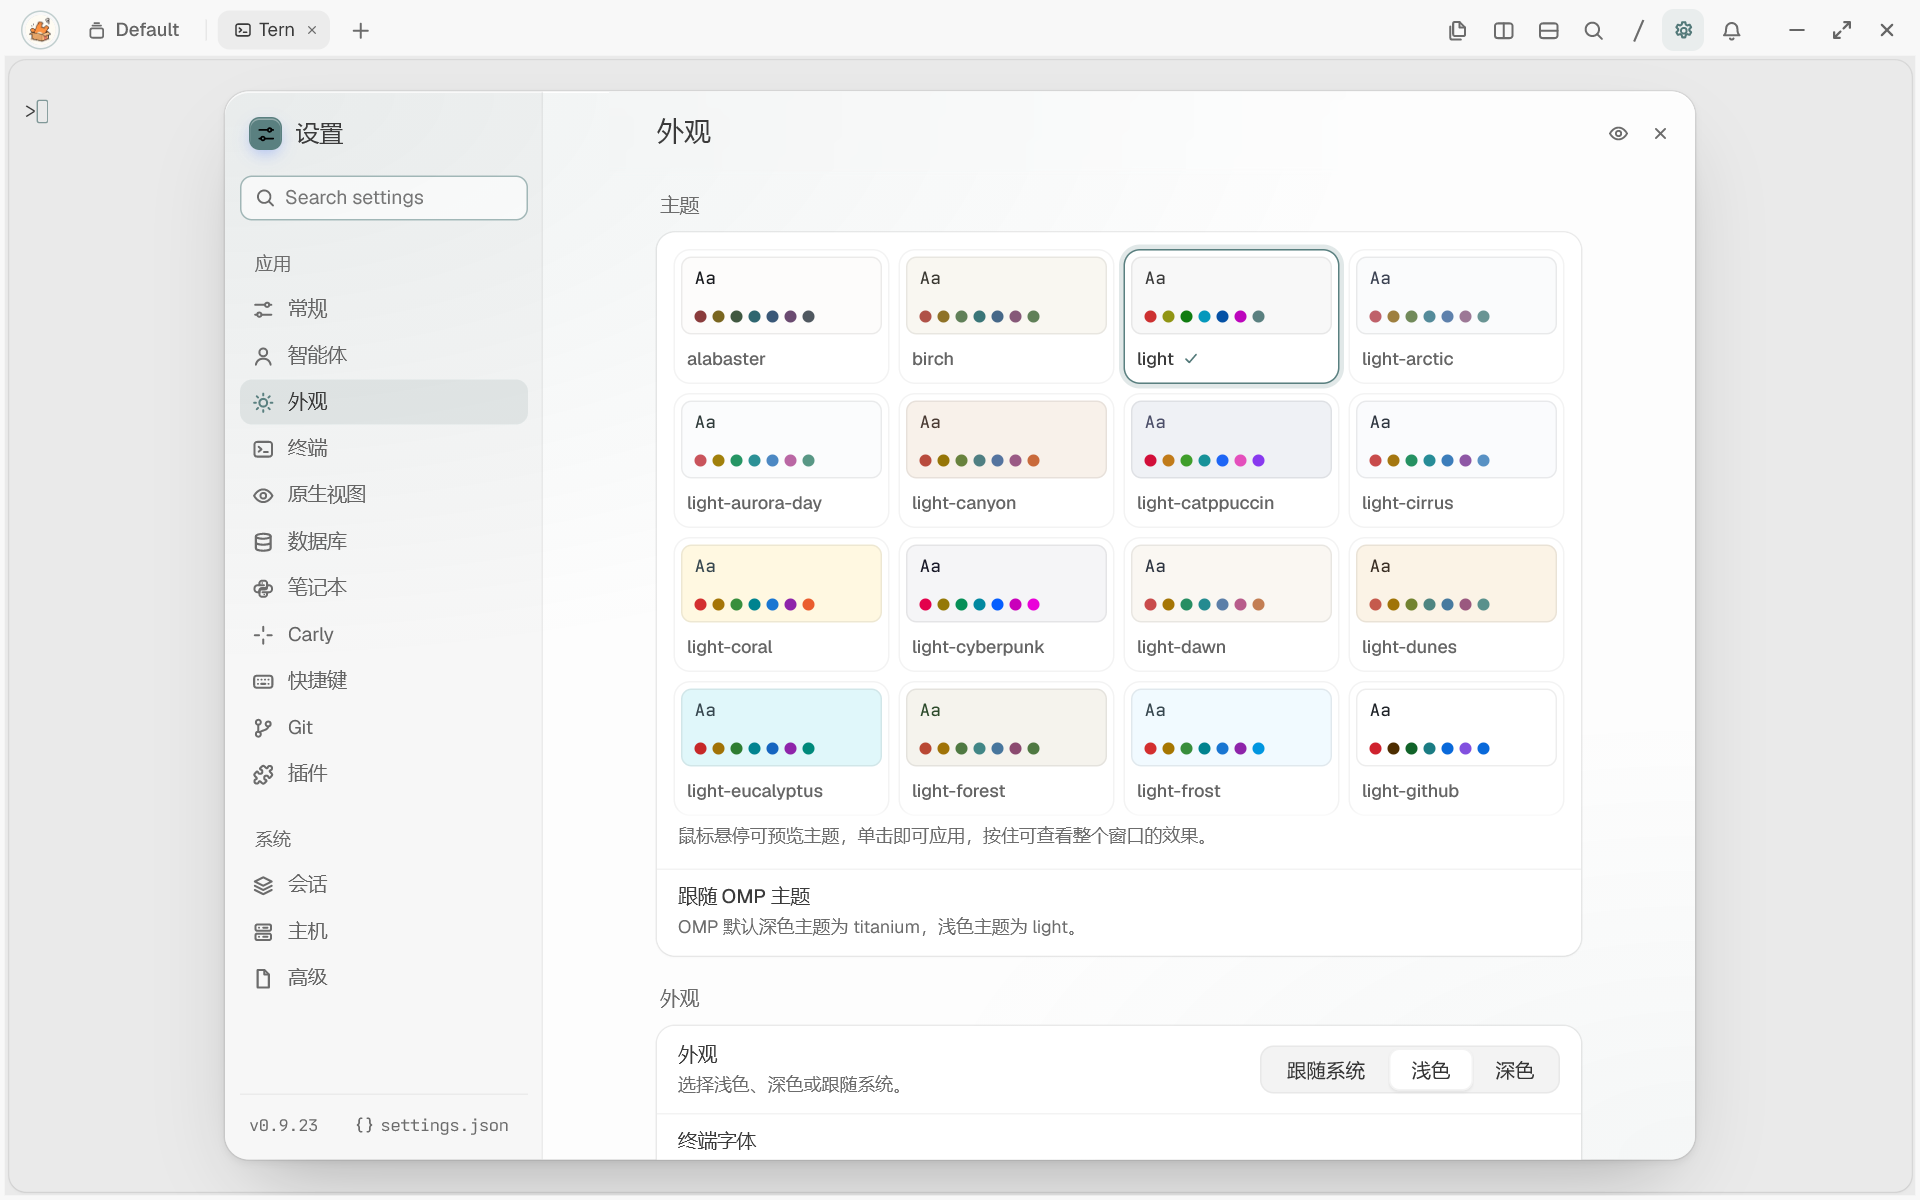
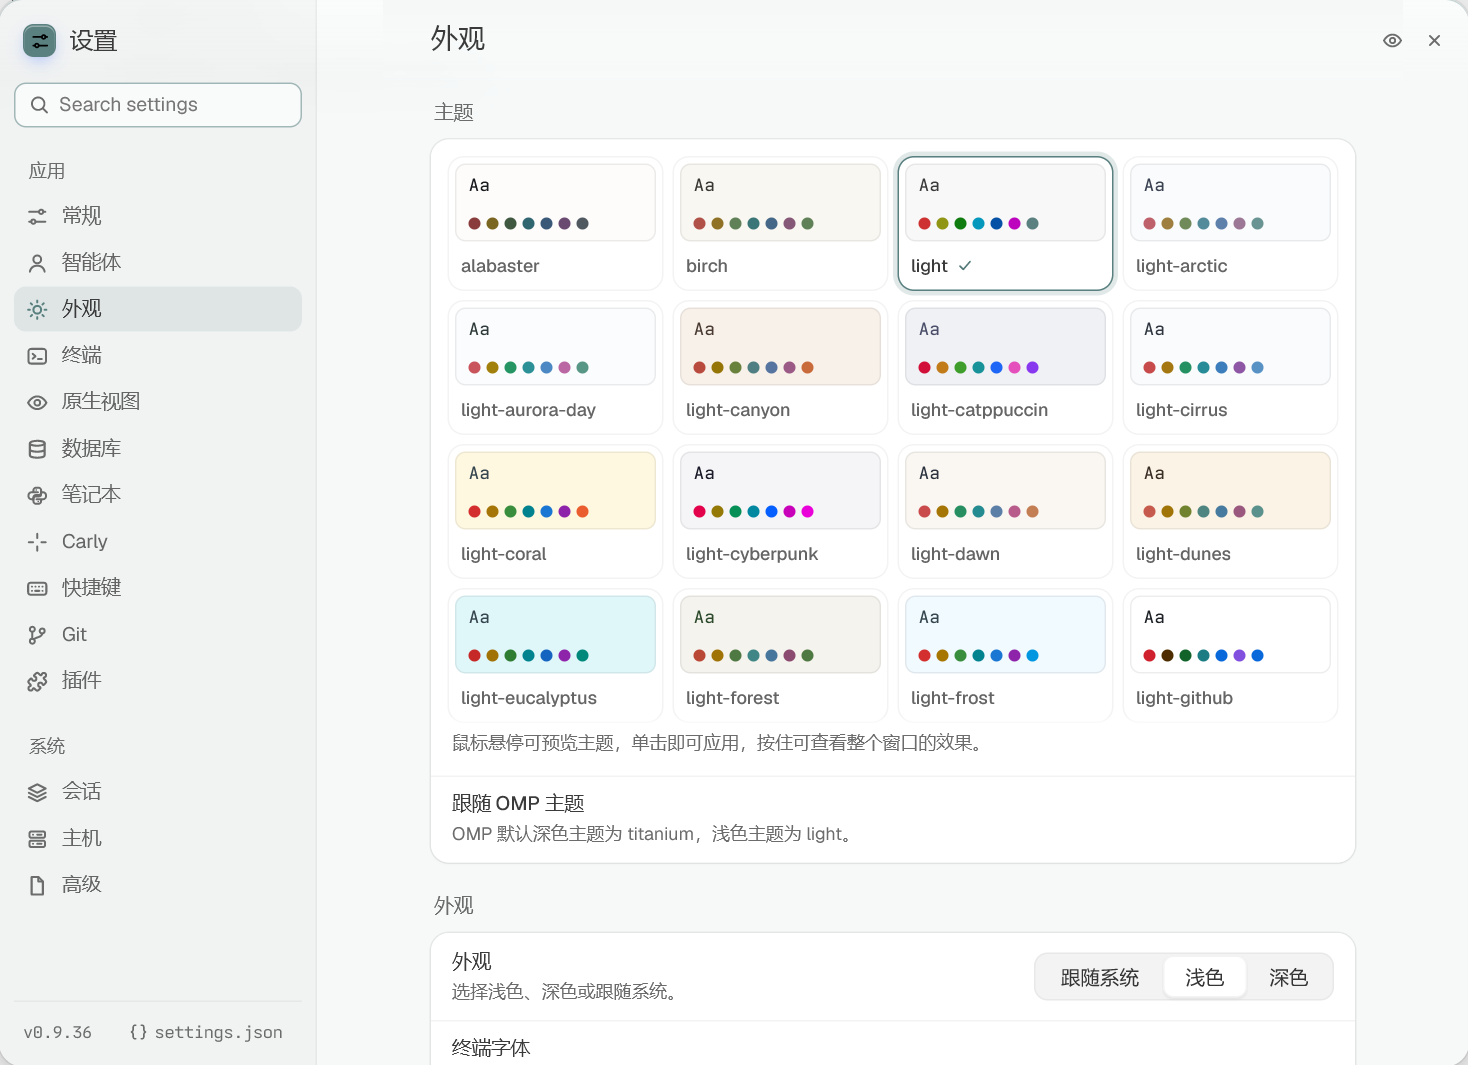
精简 README 并更新设置截图

diff --git a/README.md b/README.md
@@ -1,94 +1,60 @@
-# Tern 简体中文 0.7.3（Windows，适配 Tern 0.9.36）
+# Tern 简体中文 0.7.3
 
-适用于 Windows 的非官方 Tern 汉化插件，安装后随 Tern 自动加载，无需单独打开启动脚本。本项目不包含 Tern 主程序，也不是 Tern 官方发行版。
+适用于 Windows 的非官方 Tern 汉化插件。安装后随 Tern 启动，覆盖设置、命令面板和常用菜单。
 
-[查看发行版本](https://github.com/losewayy/tern-zh-cn/releases/latest) · [查看更新记录](CHANGELOG.md) · [隐私说明](PRIVACY.md)
+[更新记录](CHANGELOG.md) · [历史发行](https://github.com/losewayy/tern-zh-cn/releases) · [隐私说明](PRIVACY.md) · [MIT 许可证](LICENSE)
 
-## 第一次使用
+## 安装
 
-**不需要注册 GitHub 账号，也不用下载源码 ZIP。** 已经安装 Tern 的用户，按下面三步操作即可。
+需要[受支持的 Tern](#兼容性) 和 [Git](https://git-scm.com/install/windows)。在线安装需要能访问 GitHub，无需登录。
 
-准备：使用 Windows，并安装受支持的 Tern。当前推荐 Tern **0.9.36 (7123a24)**，也兼容 **0.9.30 (fe54a4c)**、**0.9.23 (35c63ab)**、**0.9.12 (e498b49)** 和 **0.9.9 (9c1c09f)**。版本号相同但构建编号不同，也可能无法启用设置页汉化。在线安装还需要 Git；如果电脑没有安装，请先从 [Git 官方 Windows 下载页](https://git-scm.com/install/windows) 安装 Git，装好后重新打开 Tern。
+**方法一，终端。** 在 Tern 的终端里运行以下命令，安装完成后重新打开 Tern。
 
-1. 打开 Tern，找到能输入命令的终端区域。不要在设置搜索框里输入。
-2. 点击下面代码块右上角的复制按钮，粘贴到终端，按 **Enter（回车）**，等待安装命令结束。
-
-   ```text
-   tern plugin install github.com/losewayy/tern-zh-cn
-   ```
-
-3. 确认安装成功后，保存正在进行的工作，关闭所有 Tern 窗口，再重新打开 Tern。打开设置，检查左侧是否显示“常规、智能体、外观、终端”等中文分类。
-
-![首次安装操作示意：打开 Tern 终端，粘贴安装命令并回车，安装成功后重新打开 Tern](assets/screenshots/install-guide.png)
-
-图中是操作示意，不是安装成功的实际输出。安装过程中需要联网。安装完成后，日常汉化在本机运行，无需在线翻译。
-
-**方法二，图形界面安装：** 在 Tern 设置的 **Plugins** 页面，将 `github.com/losewayy/tern-zh-cn` 粘贴到 **Install…** 的输入框，点击 **Install**，安装成功后重新打开 Tern。同样需要 Git 和网络。
-
-## 更新已安装的插件
-
-先保存工作并关闭所有 Tern 窗口，然后从 Windows 开始菜单打开 **PowerShell** 或 **Windows 终端**，粘贴下面的命令并按回车：
-
-```text
-tern plugin install github.com/losewayy/tern-zh-cn --force
+```powershell
+tern plugin install github.com/losewayy/tern-zh-cn
 ```
 
-命令成功结束后，重新打开 Tern。Windows 可能在 Tern 窗口打开时占用插件目录，因此请先关掉窗口再更新。
+**方法二，图形界面。** 打开 Tern 设置 → **Plugins** → **Install…**，输入 `github.com/losewayy/tern-zh-cn`，安装后重新打开 Tern。
 
-上述在线安装和更新命令获取仓库主分支的当前版本，不会锁定某次发行。发行页会记录每次发布对应的版本、适配范围和已知限制。
+## 更新和卸载
 
-## 安装遇到问题
+保存工作并关闭所有 Tern 窗口，然后在 PowerShell 或 Windows 终端中运行对应命令。
 
-- **提示找不到 `tern`，或“无法将 tern 识别为命令”：** 先确认 Tern 主程序已安装，关闭并重新打开终端后重试。仍然找不到时，使用 Tern 安装目录中的 `tern.com` 的完整路径执行命令；PowerShell 中的写法是 `& "<Tern 安装目录>/tern.com" plugin install github.com/losewayy/tern-zh-cn`，请将占位内容换成实际目录。
-- **提示找不到 Git：** 安装上面链接中的 Git，重新打开 Tern 后重试。
-- **提示插件已经安装：** 按上面的“更新已安装的插件”操作，使用带 `--force` 的命令。
-- **下载失败或连接超时：** 确认电脑能连接 GitHub，然后重新运行安装命令。下载失败不代表已经装好。
-- **装好后设置仍是英文：** 先重新打开 Tern，再检查设置页的版本号及构建编号是否在支持范围内。未知构建会保留设置英文，避免把翻译套在错误位置。搜索结果和部分动态文字目前也会保留英文。
+| 操作 | 命令 |
+| --- | --- |
+| 更新 | `tern plugin install github.com/losewayy/tern-zh-cn --force` |
+| 卸载 | `tern plugin remove tern-zh-plus` |
 
-## 使用说明
+安装和更新都获取 GitHub 主分支的当前版本。
 
-安装并启用后，直接使用 Tern 即可。从桌面、开始菜单、文件夹右键或其他入口打开，插件都会自动启动对应窗口的汉化小程序；关闭该窗口后，小程序会自动退出，不会随 Windows 开机启动。旧版中文快捷方式仍可使用，但不是必需的。
+## 兼容性
 
-首次运行会在本机准备小程序，之后会复用已准备的文件以加快启动；文件留在本机时不会自行运行。
+推荐 **Tern 0.9.36 (7123a24)**。也支持 **0.9.30 (fe54a4c)**、**0.9.23 (35c63ab)**、**0.9.12 (e498b49)** 和 **0.9.9 (9c1c09f)**。请核对版本号和括号内的构建编号。
 
-目前针对 Windows 上的 Tern 0.9.36 (7123a24)、0.9.30 (fe54a4c)、0.9.23 (35c63ab)、0.9.12 (e498b49) 和 0.9.9 (9c1c09f) 提供设置页汉化。0.9.23、0.9.30 和 0.9.36 使用设置弹窗和左侧分类列表，固定文字和常见选项随选中的分类直接切换。其他构建仍会加载基础界面和中文命令，设置页保留英文并提示兼容性。OMP 设置页需要单独安装 [omp-di18n 汉化扩展](https://github.com/losewayy/omp-di18n)。
+插件翻译 14 个设置分类的标题、说明和常见选项。程序名、主题名和配置键保留原文，设置搜索和部分动态文字仍显示英文。其他 Tern 构建只启用基础界面和命令汉化。
 
 ## 截图
 
-以下设置截图使用 Tern 0.9.23 的新版弹窗布局。OMP 截图展示独立的 omp-di18n 扩展。
-
-| 常规设置 | 外观设置 |
+| Tern 常规设置 | Tern 外观设置 |
 | :---: | :---: |
-| ![常规设置](assets/screenshots/settings-general-zh.png) | ![外观设置](assets/screenshots/settings-appearance-zh.png) |
-| 原生视图 | 快捷键 |
-| ![原生视图](assets/screenshots/settings-lenses-zh.png) | ![快捷键](assets/screenshots/settings-keyboard-zh.png) |
-| 智能体 | 终端 |
-| ![智能体](assets/screenshots/settings-agents-zh.png) | ![终端](assets/screenshots/settings-terminal-zh.png) |
+| ![Tern 常规设置](assets/screenshots/settings-general-zh.png) | ![Tern 外观设置](assets/screenshots/settings-appearance-zh.png) |
 
-命令面板：
+上面两张 Tern 截图来自 0.9.36。
 
-![命令面板中文显示](assets/screenshots/command-palette-zh.png)
+### OMP 原生设置
 
-OMP 原生设置页（需安装 [omp-di18n 汉化扩展](https://github.com/losewayy/omp-di18n)，部分说明仍为英文）：
+下图实拍于 **Tern 0.9.36 + OMP 19.2.1**。在 OMP 里运行 `/settings` 会打开这个窗口。它在 Tern 里显示，管理的是 OMP 自己的设置，汉化需另装 [omp-di18n](https://github.com/losewayy/omp-di18n)。
 
-| 模型设置 | 文件设置 |
-| :---: | :---: |
-| ![OMP 模型设置](assets/screenshots/omp-settings-model-zh.png) | ![OMP 文件设置](assets/screenshots/omp-settings-files-zh.png) |
+![OMP 19.2.1 的原生设置窗口，左侧是分类列表，右侧是交互设置](assets/screenshots/omp-settings-native-zh.png)
 
-## 汉化范围
+## 常见问题
 
-覆盖 Tern 基础界面、命令面板、14 个设置分类的标题和说明、常见选项与操作按钮，以及终端区块常见右键菜单。新版智能体设置、终端提示符组件说明、快捷终端、底部组件、ovnfs 和 ABKit 设置也已补充。数据库的默认位置、换行方式和标识符引号会跟随实际设置值显示中文；默认位置的下拉菜单也支持中文。程序名、主题名、命令、配置键和版本号保留原文。搜索框占位文字、部分动态状态、任务操作及尚未适配的菜单仍为英文。
+- **找不到 `tern`**：重新打开终端后再试，或用安装目录中的 `tern.com` 完整路径运行命令，例如 `& "<Tern 安装目录>/tern.com" plugin install github.com/losewayy/tern-zh-cn`。
+- **安装失败**：确认 Git 已安装且可以访问 GitHub。若提示插件已存在，使用更新命令。
+- **设置还是英文**：重新打开 Tern，检查设置 → **Plugins** 中插件是否启用，再核对上面的构建编号。
 
-新版设置页按界面当前选中的分类限定样式，不等待后台判断页名；后台暂未更新或停止时，固定文字仍能正确切换。页内标签仍按该版本的布局定位。搜索时没有选中分类，页面翻译会自动停用，结果暂时显示原文。旧版设置页继续使用后台识别。选项按钮用透明 SVG 显示中文，继续使用原按钮的点击、键盘、焦点和选中状态，不更改配置值。翻译属于界面显示层，不修改 Tern 程序或命令功能。
+## 维护
 
-新版分类、固定设置文字和常见选项直接由界面样式翻译。动态安装状态、命令面板和菜单仍使用随窗口运行的本地小程序；数据库选项值读取 Tern 自身的设置。当前支持的 Tern 构建尚未提供完整的内置界面语言接口。
+新版固定设置文字由 `compat/` 中的样式按选中的分类显示。动态状态、命令面板和部分菜单由随窗口运行的本地小程序处理。译文只用于界面显示。
 
-## 卸载
-
-关闭所有 Tern 窗口后，在其他终端运行 `tern plugin remove tern-zh-plus`。小程序会随对应窗口退出。如需一并清除本地缓存，可删除 `%LOCALAPPDATA%/Tern/plugin-data/tern-zh-plus` 文件夹。
-
-## 开发与兼容性
-
-`window.luau` 和 `auto-bridge.luau` 负责窗口内的样式，`auto-bridge.cs` 是随窗口启动和退出的小程序源码，`settings-navigation.css` 翻译新版左侧分类。根目录的 `prefs-*.css` 保存 0.9.12 的设置页翻译，`compat/0.9.9` 保存旧版差异页面，`compat/0.9.23` 保存弹窗设置页的基础翻译。0.9.30 和 0.9.36 各有对应的 `layout-*.luau` 和 `compat` 子目录，用来对齐移动的条目和补充译文。`ui-labels.tsv` 保存命令名称翻译，`settings-controls.luau`、`settings-controls.tsv` 和 `settings-labels.tsv` 负责按钮、选项值及按当前分类限定的样式。旧启动脚本仅供已创建的快捷方式兼容使用。
-
-运行 `python tools/check_tern_settings.py --exe "<Tern 安装目录>/tern.com"`，可在无界面实例中对照 0.9.23 的 14 个设置分类。检查旧版时，用 `--baseline tools/tern-0.9.12-settings.json` 指定旧基准。此检查覆盖标题、分组、标签及说明，不代表全部动态控件均兼容。确认原文、布局和实际显示后，再为新构建启用设置页样式。隐私说明见 [PRIVACY.md](PRIVACY.md)，本项目采用 [MIT 许可证](LICENSE)。
+可用 `python tools/check_tern_settings.py --exe "<Tern 安装目录>/tern.com"` 对照 0.9.23 的设置布局基准。适配新构建时，还要在实际窗口检查页面切换和动态控件。
